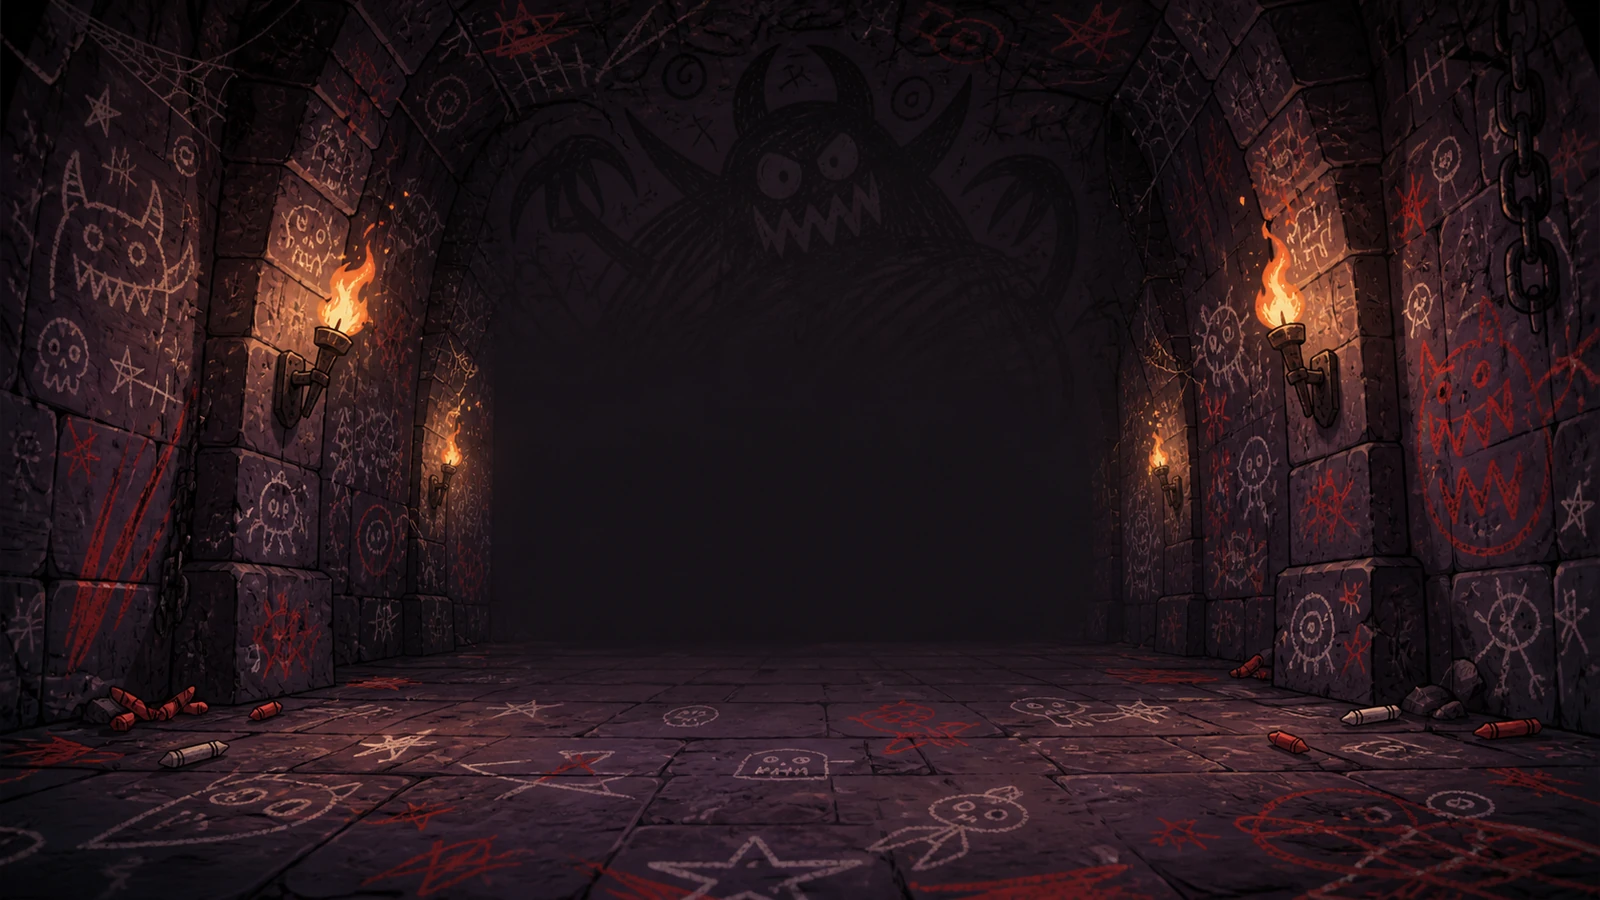
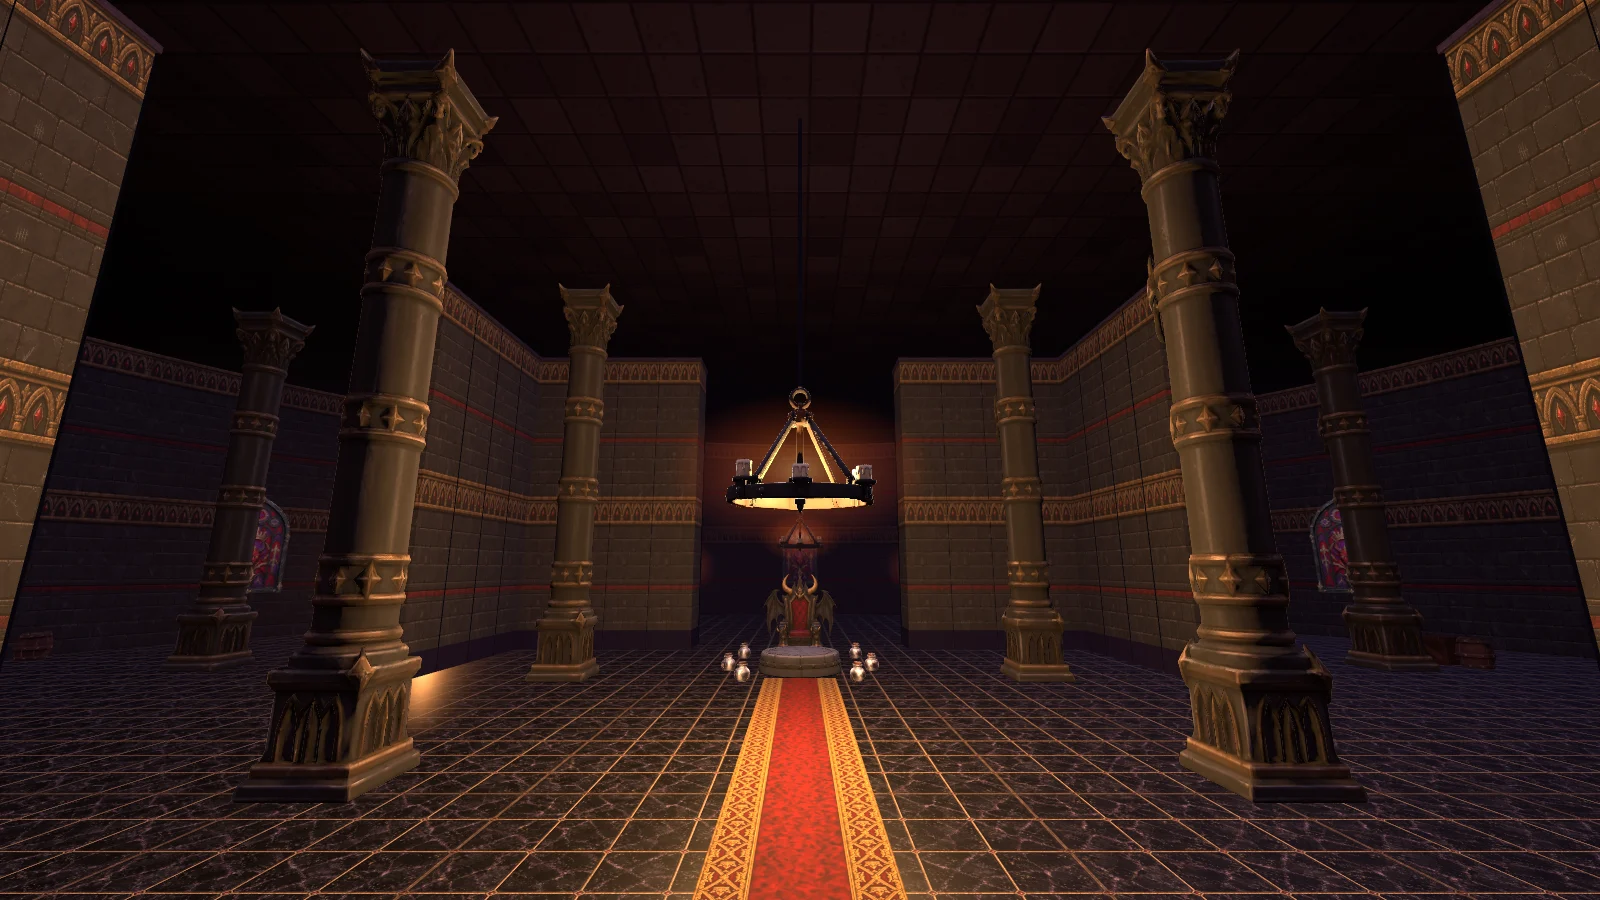
Title background: screenshot of the palace map
Claude-Session: https://claude.ai/code/session_01XNz4XfrEGQn3GrVDSAW537

diff --git a/HANDOFF.md b/HANDOFF.md
@@ -141,7 +141,7 @@ URL=https://dhshlove01-lang.github.io/Ink-Escape/ NODE_PATH=$(npm root -g) node 
 | ☆ | 몬스터 오라 입자 | (새 키) | 하얀 네모 점 (보기 안 좋음) | `MonsterRenderer` 오라 |
 | ☆ | 목숨 하트 (꽉 찬/빈) | (새 키) | ❤🖤 | 1:1 HUD |
 | ☆ | 궁전 천장 텍스처 (심리스) | (테마 `tex.ceiling`) | 어두운 돌 무늬 코드 그림 | 위를 보면 보이는 14m 천장 |
-| ☆ | 시작 화면 배경 (궁전 버전) | `ui.title_bg` 교체 | 지금은 던전 그림 | 맵이 궁전으로 바뀜 |
+| ✅ | 시작 화면 배경 (궁전 버전) | `ui.title_bg` | 2026-11-27 게임 궁전 맵을 직접 찍어 교체 (카펫→왕좌·샹들리에·기둥, 1600×900) | — |
 | ☆ | 작은 버튼 아이콘: 조작법·옵션·보급 상자 안내 | (새 키) | 🎮 ⚙ 📦 | 시작 화면, HUD |
 
 2D 로 두는 게 맞는 것(교체 불필요): 총구 불꽃·레드도트·히트마커·크로스헤어(그림 있음)·소환 장판·지우개 폭발.
@@ -154,6 +154,10 @@ URL=https://dhshlove01-lang.github.io/Ink-Escape/ NODE_PATH=$(npm root -g) node 
 - 효과음은 아직 임시.
 
 ## 작업 기록
+
+### 2026-11-27 · 시작 화면 배경을 궁전 맵 스크린샷으로
+- **무엇을**: 사용자 "궁전 버전은 맵 사용하면 되잖아 따와서". 헤드리스로 게임 궁전 맵을 HUD·총 없이 4~6구도로 찍어(눈높이 2.4~4m) 카펫 끝에서 왕좌·샹들리에·기둥·스테인드글라스가 보이는 구도로 `assets/ui/title_bg.webp`(1600×900) 교체. 예전 던전 그림은 git 기록에 있음.
+- **검증**: 시작 화면 스크린샷 — 양옆에 궁전 기둥·벽이 어둡게 깔림(가운데는 시작 카드가 가림).
 
 ### 2026-11-27 · 옵션(밸런스) 창 — 조작법 옆 ⚙, 적용하면 내가 만든 방 전원에게
 - **무엇을**: 사용자 요청 "조작법 옆에 옵션 창, 다 설정 가능, 적용하면 다른 사람도 적용, 지금 값이 기본값, 기본 되돌리기". 사용자 답: 적용 범위 = 내가 만든 방 전원(서버 없음), 누구나 바꿀 수 있음, 항목 = 게임 밸런스 전부(판정·통신 값과 로비에서 고르는 판 시간은 제외).
